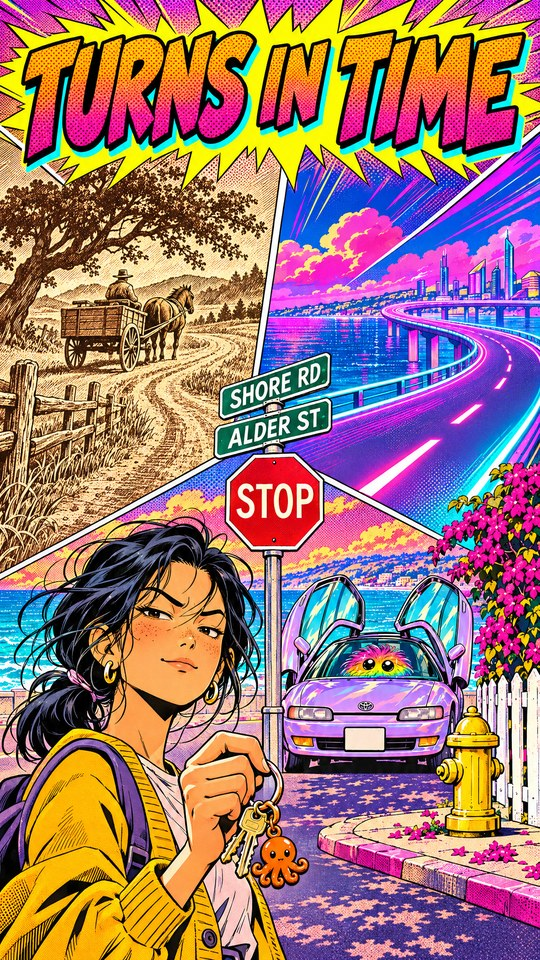
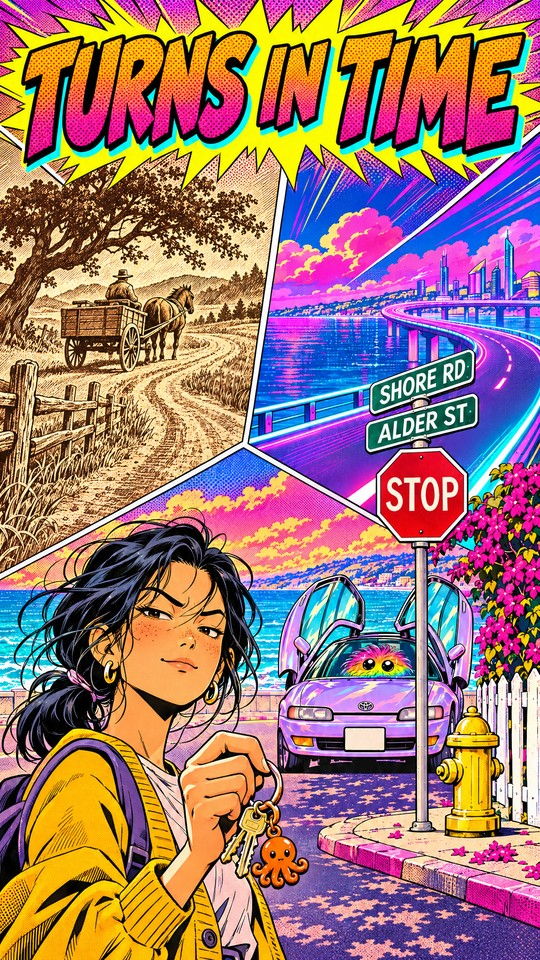
Title card: the stop sign stands on the corner, not in the road
The sign, its post, and the street blades move to the corner, where the
post stands on the sidewalk behind the curb beside the hydrant (the
bible's corner rule). Only the moved sign and the art behind its old
place changed; the rest of the card is pixel-identical. The title alt
text now matches.

diff --git a/turns-in-time/index.html b/turns-in-time/index.html
@@ -5,7 +5,7 @@
 <meta name="viewport" content="width=device-width, initial-scale=1, viewport-fit=cover">
 <title>Turns in Time</title>
 <link rel="preload" href="fonts/Bangers-Regular.ttf" as="font" type="font/ttf" crossorigin>
-<link rel="stylesheet" href="viewer.css?v=20261113i">
+<link rel="stylesheet" href="viewer.css?v=20261113j">
 </head>
 <body data-mode="browse">
 <svg width="0" height="0" style="position:absolute" aria-hidden="true" focusable="false">
@@ -13,6 +13,6 @@
   <filter id="fx-cyan" color-interpolation-filters="sRGB"><feColorMatrix type="matrix" values="0 0 0 0 0  0 1 0 0 0  0 0 1 0 0  0 0 0 1 0"/></filter>
 </svg>
 <main id="frame"></main>
-<script src="viewer.js?v=20261113i"></script>
+<script src="viewer.js?v=20261113j"></script>
 </body>
 </html>

diff --git a/turns-in-time/kiosk.html b/turns-in-time/kiosk.html
@@ -5,7 +5,7 @@
 <meta name="viewport" content="width=device-width, initial-scale=1, viewport-fit=cover">
 <title>Turns in Time</title>
 <link rel="preload" href="fonts/Bangers-Regular.ttf" as="font" type="font/ttf" crossorigin>
-<link rel="stylesheet" href="viewer.css?v=20261113i">
+<link rel="stylesheet" href="viewer.css?v=20261113j">
 </head>
 <body data-mode="kiosk">
 <svg width="0" height="0" style="position:absolute" aria-hidden="true" focusable="false">
@@ -13,6 +13,6 @@
   <filter id="fx-cyan" color-interpolation-filters="sRGB"><feColorMatrix type="matrix" values="0 0 0 0 0  0 1 0 0 0  0 0 1 0 0  0 0 0 1 0"/></filter>
 </svg>
 <main id="frame"></main>
-<script src="viewer.js?v=20261113i"></script>
+<script src="viewer.js?v=20261113j"></script>
 </body>
 </html>

diff --git a/turns-in-time/viewer.js b/turns-in-time/viewer.js
@@ -455,9 +455,9 @@
 
   function wait(seconds) { return new Promise(function (r) { setTimeout(r, seconds * 1000); }); }
 
-  var TITLE_ALT = "Turns in Time. Nami holds up her keys beside a stop sign where three eras meet: " +
+  var TITLE_ALT = "Turns in Time. Nami holds up her keys where three eras meet: " +
     "a dirt road with a horse and wagon, a glowing road over the bay, and today's corner, " +
-    "where a lavender car waits with a furball inside.";
+    "where a lavender car waits with a furball inside, by the stop sign and the hydrant.";
 
   // The title card. The kiosk adds "The story so far" over it when recap beats follow.
   function titleScreen(storySoFar) {
